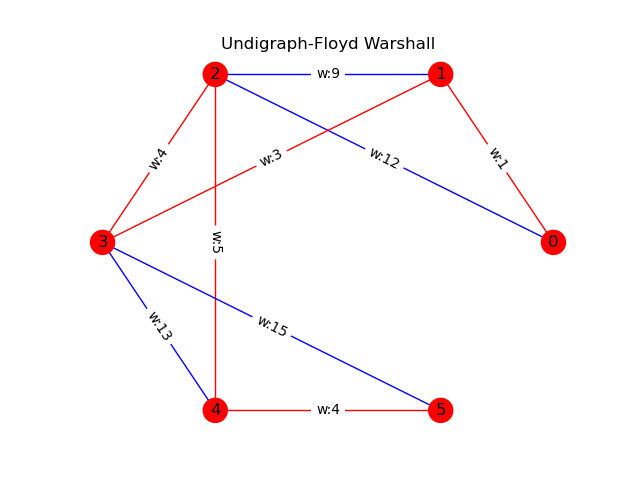
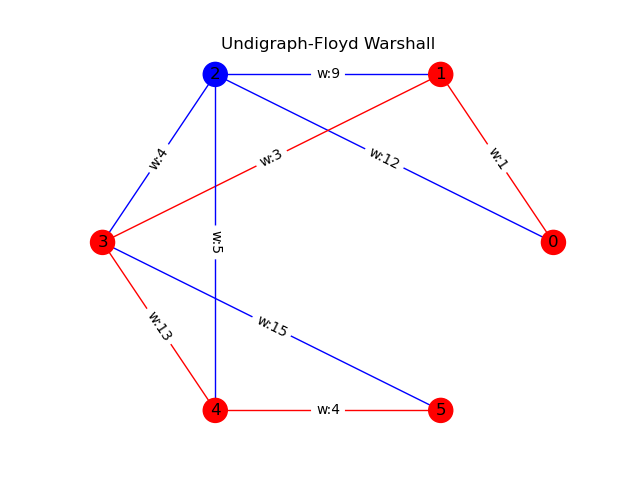
modify a few

diff --git a/shortest_path/floyd_warshall.py b/shortest_path/floyd_warshall.py
@@ -23,7 +23,28 @@ class FloydWarshall:
                         self.graph_mat[i][j] = self.graph_mat[i][k]+self.graph_mat[k][j]
                         path[i][j] = k
         return self.graph_mat, path
-    
+# 递归
+# def get_nodes_edges_recursion(paths, i, j):
+#         if i == j:
+#             return [i], []
+#         else:
+#             if paths[i][j] == -1:
+#                 return [j], [(i, j)]
+#             else:
+#                 left_nodes, left_edges = get_nodes_edges(paths, i, paths[i][j])
+#                 right_nodes, right_edges = get_nodes_edges(paths, paths[i][j], j)
+#         return left_nodes+right_nodes, left_edges+right_edges
+
+def get_nodes_edges(paths, i, j):
+    pass_nodes = [i, j]
+    pass_edges = []
+    while paths[i][j] != -1:
+        j = paths[i][j]
+        pass_nodes.insert(1, j)
+        pass_edges.append((j, pass_nodes[2]))
+    pass_edges.append((i, j))
+    return pass_nodes, pass_edges[::-1]
+
 def draw(sp_mat, color_nodes, color_edges):
     '''画一张图，并给指定的节点和边着色
     Parameters
@@ -88,24 +109,16 @@ def main():
     print(finaly_mat)
     print(paths)
 
-    # 返回经过的节点写的不是很好，后面有时间改进一下
-    def get_nodes_edges(i, j):
-        if i == j:
-            return [i], []
-        else:
-            if paths[i][j] == -1:
-                return [i, j], [(i, j)]
-            else:
-                left_nodes, left_edges = get_nodes_edges(i, paths[i][j])
-                right_nodes, right_edges = get_nodes_edges(paths[i][j], j)
-        return list(set(left_nodes).union(right_nodes)), left_edges+right_edges
-
     for i in range(count_node):
         for j in range(i+1, count_node):
-            print('{}->{}：{}，| {}'.format(i, j, get_nodes_edges(i, j), finaly_mat[i][j]))
+            print('{}->{}: {} | {}'.format(i, j, get_nodes_edges(paths, i, j), finaly_mat[i][j]))
             
     start_node, end_node = 0, 5 # 开始节点，结束节点
-    pass_nodes, pass_edges = get_nodes_edges(start_node, end_node)
+    pass_nodes, pass_edges = get_nodes_edges(paths, start_node, end_node)
+    '''使用get_nodes_edges_recursion注意添加开始节点
+    '''
+    # pass_nodes, pass_edges = get_nodes_edges_recursion(paths, start_node, end_node)
+    # pass_nodes.insert(0, start_node)
     draw(sp_mat, pass_nodes, pass_edges)
 if __name__ == '__main__':
     main()

diff --git a/graph_match/hungary.py b/graph_match/hungary.py
@@ -54,6 +54,7 @@ def draw(G, nodes_one, nodes_two, color_edges):
     '''
     自定义pos
     '''
+    # 对matplotlib不太熟悉，布局有待改进
     pos = dict()
     size = max(len(nodes_one), len(nodes_two)) + 2
     one_x, two_x = size//3, 2*size // 3
@@ -72,15 +73,18 @@ def draw(G, nodes_one, nodes_two, color_edges):
     
 
 def main():
-    # 测试用例0
+    ''' 测试用例0
+    '''
     # nodes_one = [0, 1, 2, 3]
     # nodes_two = ['0', '1', '2', '3']
     # edges = [(0, '0'), (0, '1'), (1, '1'), (1, '2'), (2, '0'), (2, '1'), (3, '2')]
 
-    # 测试用例1
+    ''' 测试用例1
+    '''
     nodes_one = [0, 1, 2, 3] 
-    nodes_two = ['0', '1', '2', '3']
-    edges = [(0, '0'), (0, '1'), (1, '1'), (1, '2'), (2, '0'), (2, '1'), (3, '2'), (3, '3')] 
+    nodes_two = ['a', 'b', 'c', 'd']
+    edges = [(0, 'a'), (0, 'b'), (1, 'b'), (1, 'c'), (2, 'a'), (2, 'b'), (3, 'c'), (3, 'd')]
+    
     num_match, match = Hungary(nodes_one, nodes_two, edges).max_match()
     match_edges = []
     for key, value in match.items():
@@ -90,7 +94,6 @@ def main():
     G = nx.Graph()
     G.add_nodes_from(nodes_one+nodes_two)
     G.add_edges_from(edges)
-    print(G.nodes)
     draw(G, nodes_one, nodes_two, match_edges) 
 
 if __name__ == '__main__':

diff --git a/shortest_path/dijkstra.py b/shortest_path/dijkstra.py
@@ -118,7 +118,7 @@ def draw(DG, color_nodes, color_edges):
 
 
 def main():
-    nodes = [0, 1, 2, 3, 4, 5, 6] # 节点6没有边连接，这里加入是测试画图时画出鼓励节点
+    nodes = [0, 1, 2, 3, 4, 5, 6] # 节点6没有边连接，这里加入是测试画图时画出孤立节点
     edges = [(0, 1, 1), (0, 2, 12), (1, 2, 9), (1, 3, 3), (2, 4, 5), (2, 3, 4), (3, 4, 13), (3, 5, 15), (4, 5, 4)]
 
     start_node = 0 # 开始节点
